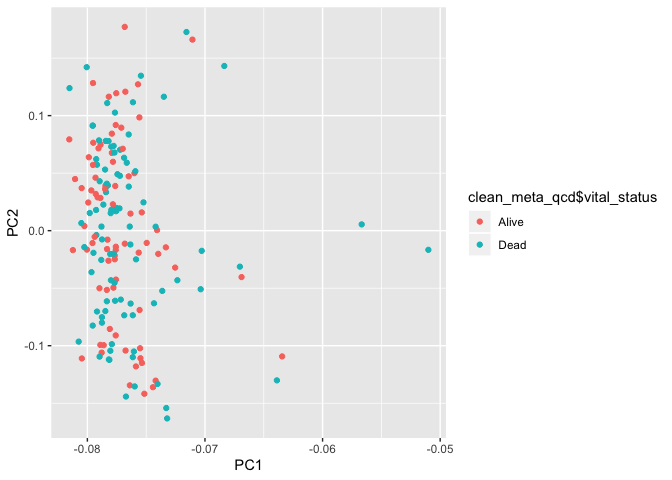
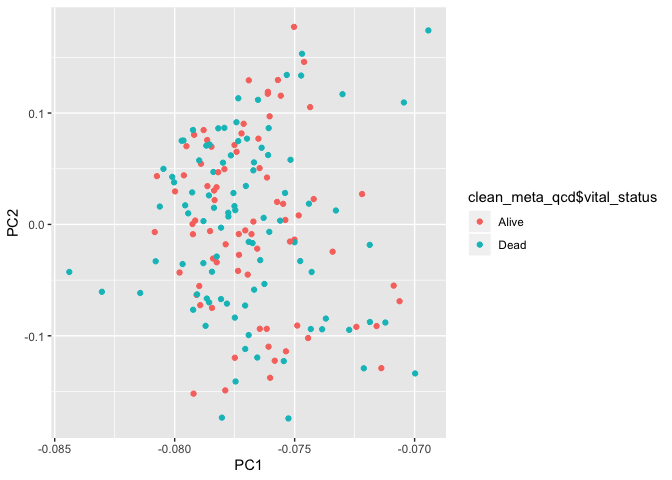
updated code for exploratory

diff --git a/src/exploratory_analysis_HA.md b/src/exploratory_analysis_HA.md
@@ -34,7 +34,8 @@ tcga_z_qcd <- tcga_z[, !(colnames(tcga_z) %in% outlier_samples)]
 tcga_qcd <- tcga[, !(colnames(tcga) %in% outlier_samples)]
 
 #PCA of filtered dataset
-A <- cov(tcga_qcd, method = "pearson")
+tcga_filt <- tcga_z_qcd[rownames(tcga_z_qcd) %in% rownames(tcga_var_top5000),]
+A <- cov(tcga_filt, method = "pearson")
 E <- eigen(A)
 FV <- data.frame(as.matrix(E$vectors[, 1:2]), stringsAsFactors = F)
 colnames(FV) <- c("PC1", "PC2")
